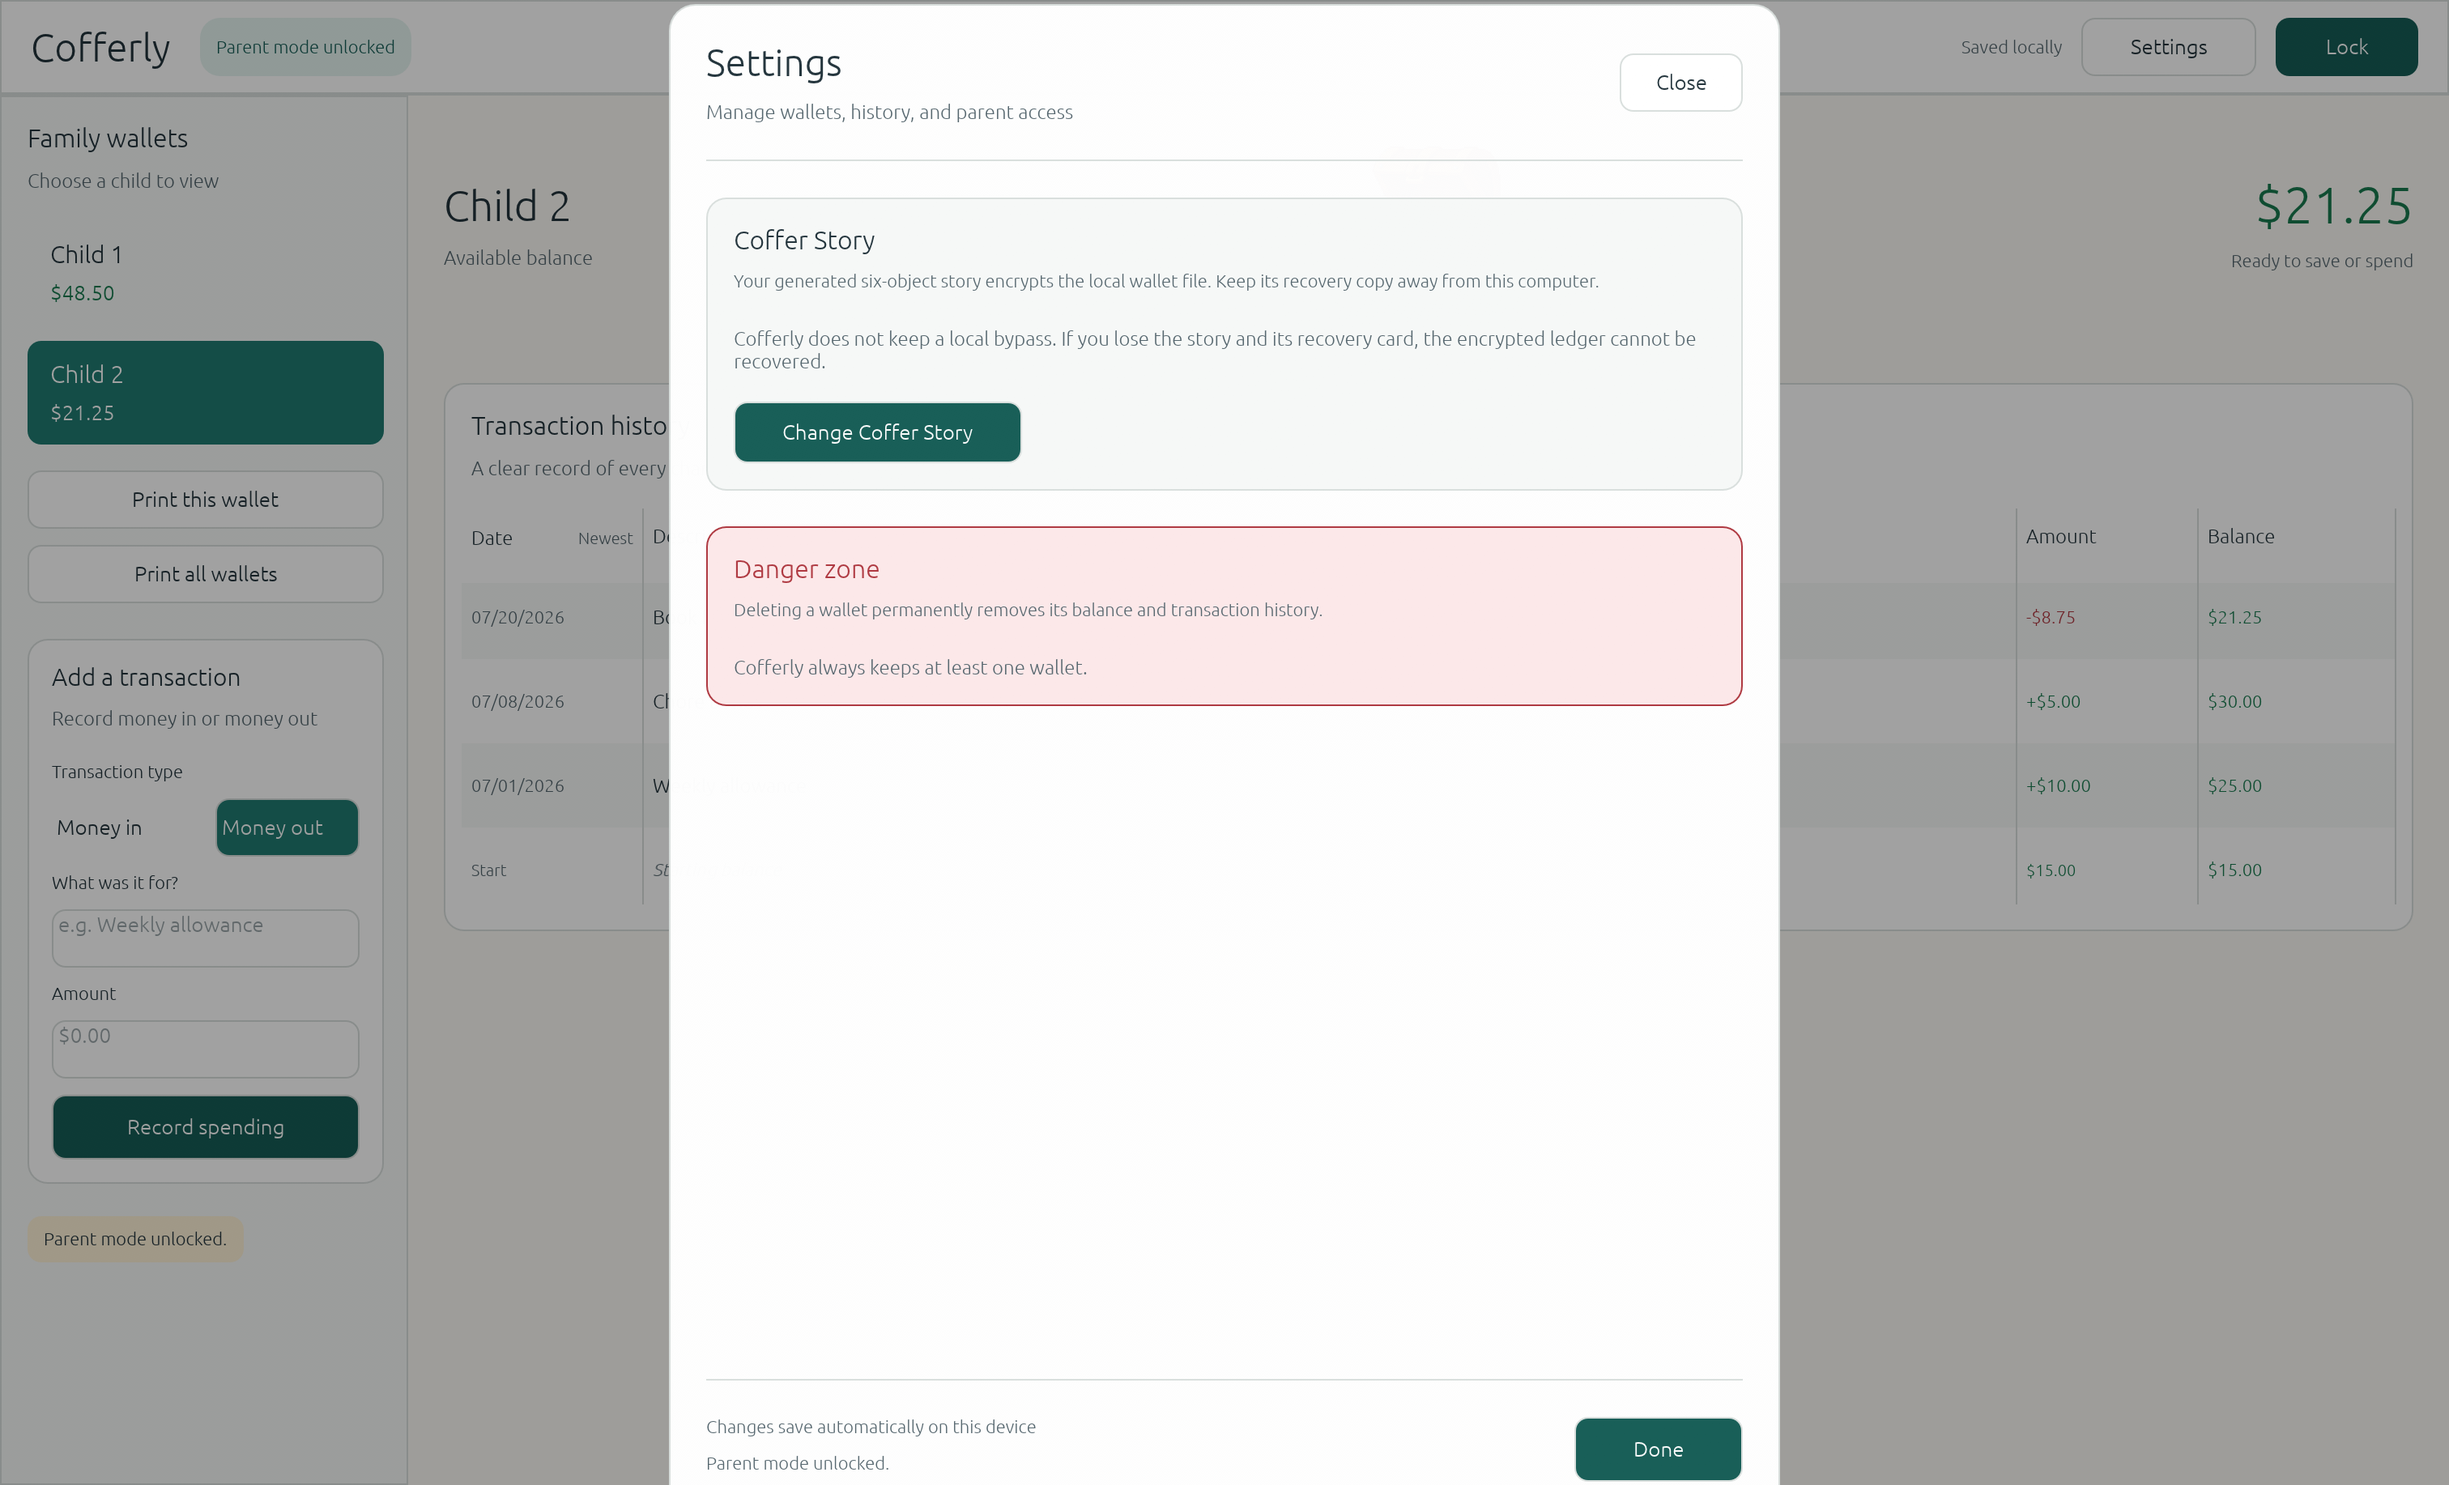
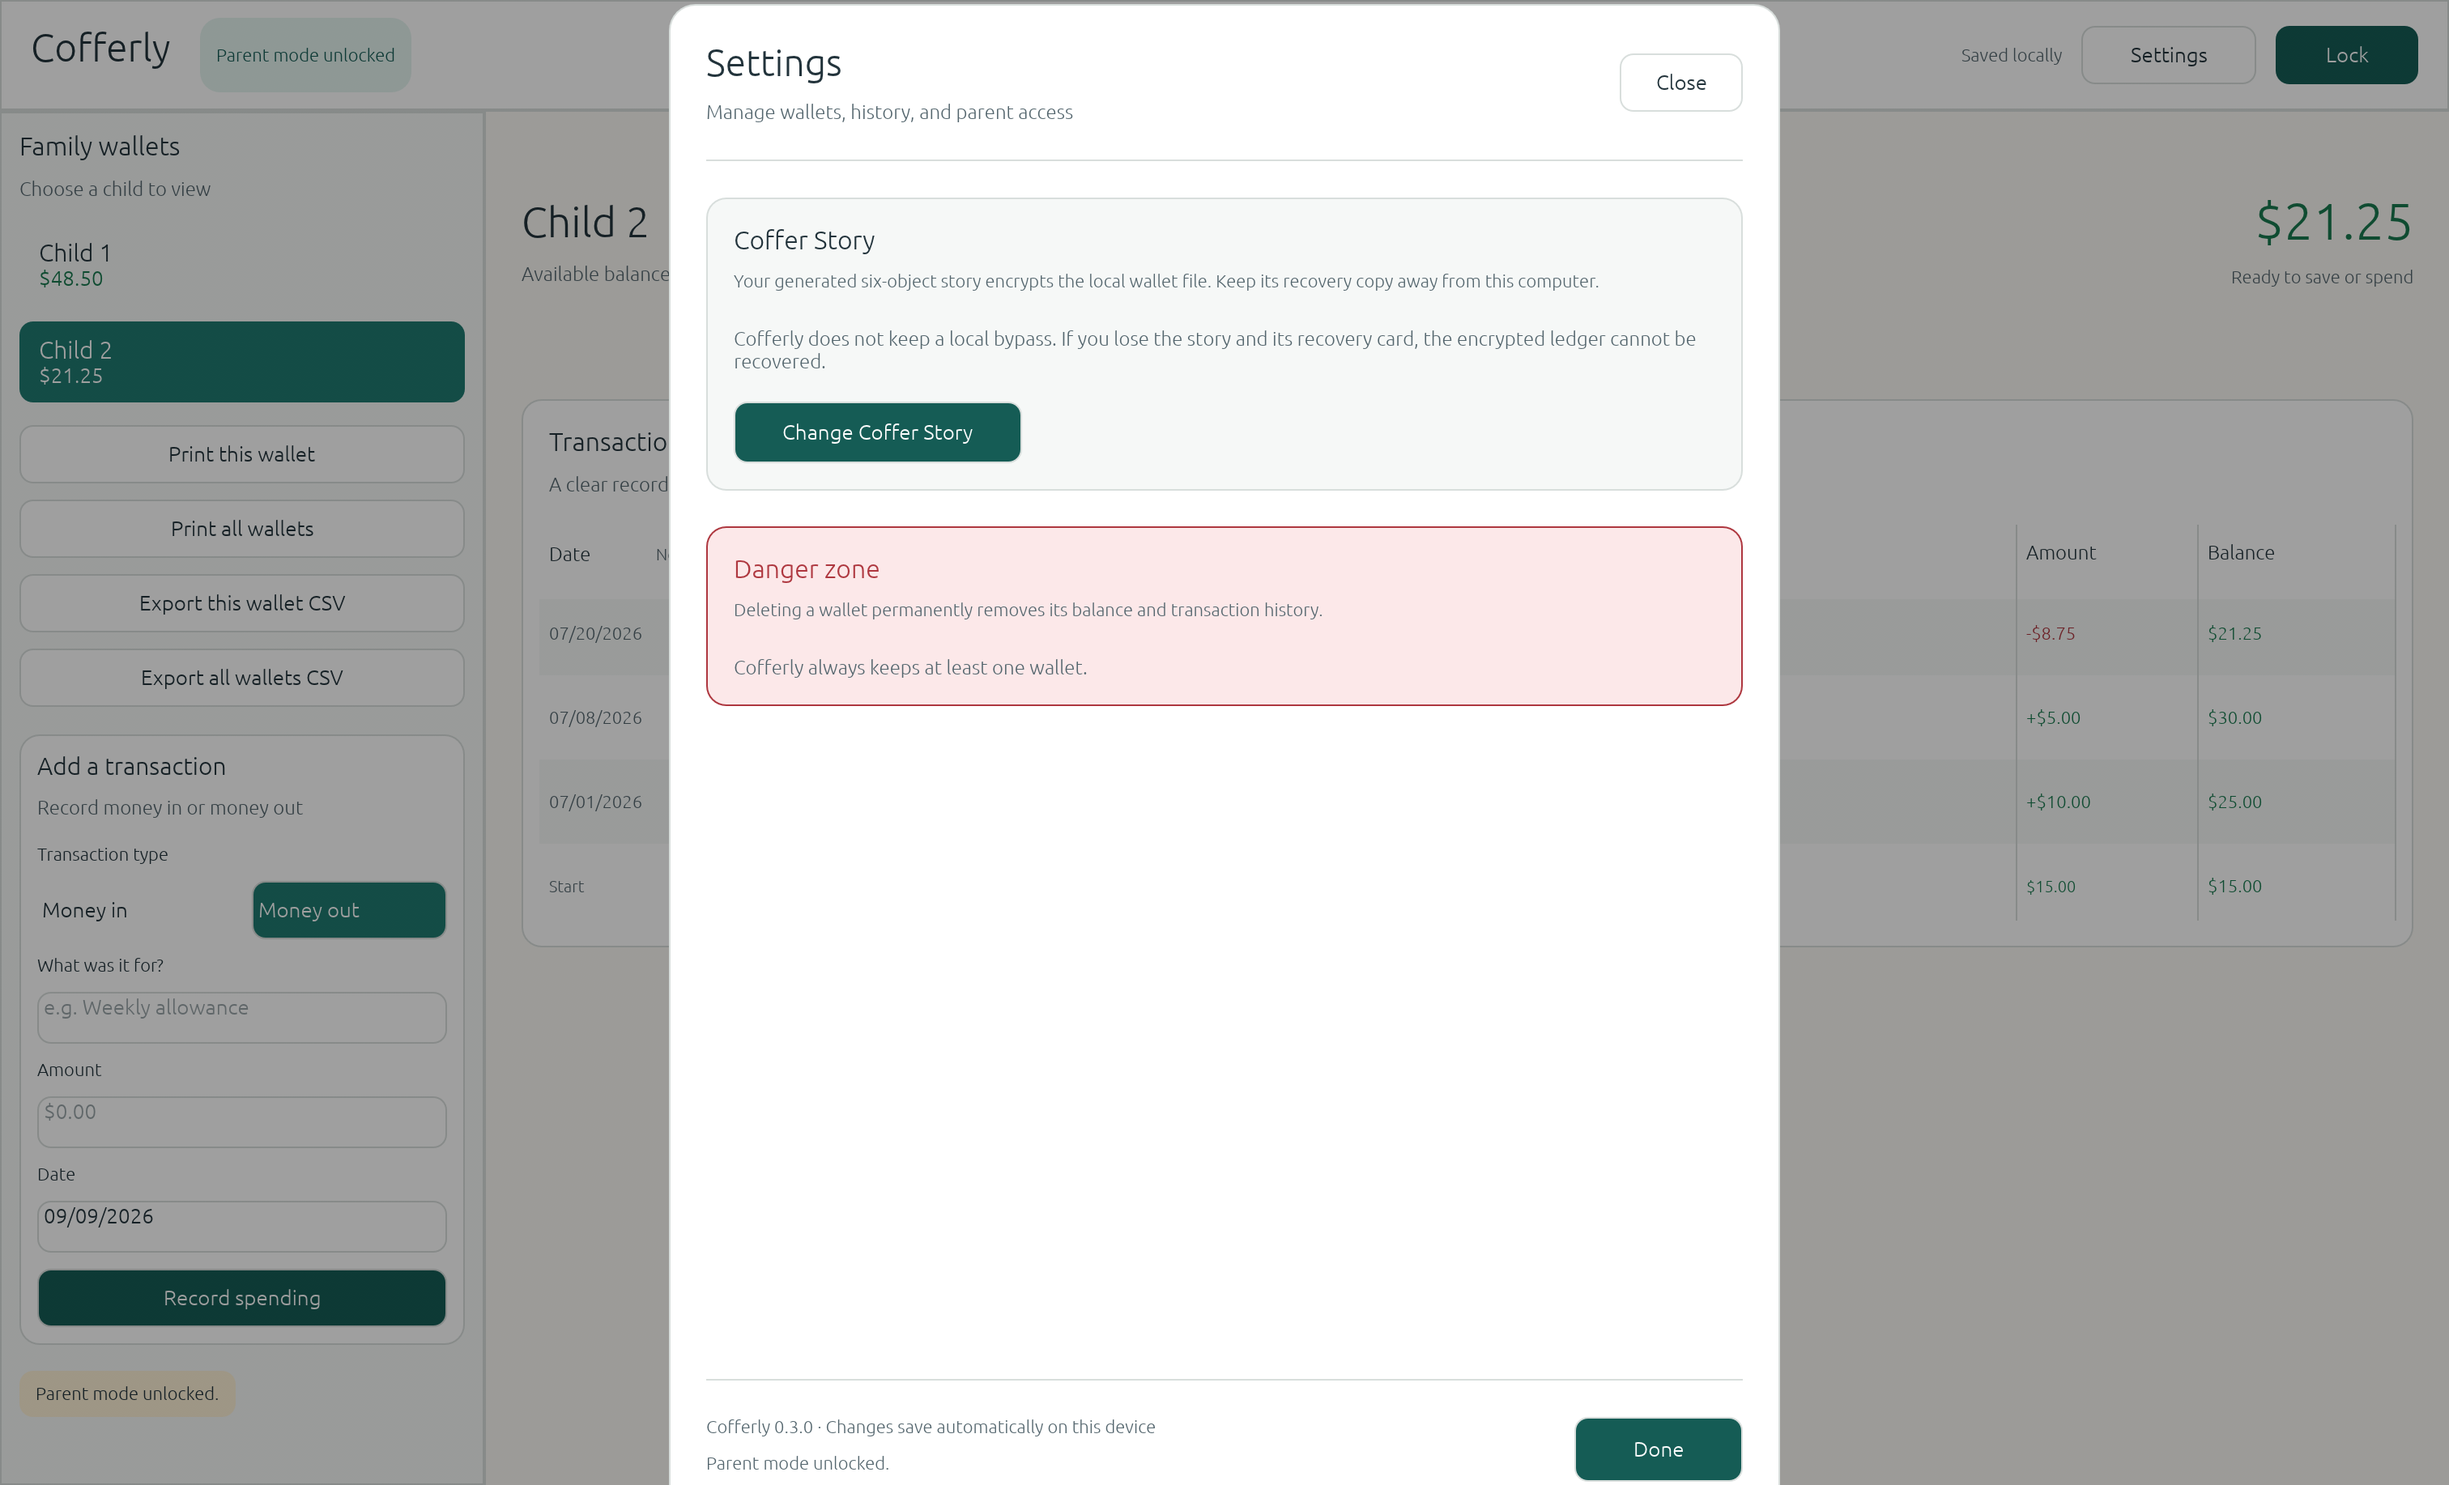
chore: prepare Cofferly 0.3.0
Bump version strings, fold Unreleased into the 0.3.0 changelog, document
story-unlock grace in SECURITY.md, extend the release smoke list, and
refresh README screenshots.

diff --git a/CHANGELOG.md b/CHANGELOG.md
@@ -2,29 +2,58 @@
 
 ## Unreleased
 
-- Amount and starting-balance validation copy mentions grouped/$ examples (`$1,234.56`) the parser already accepts.
-- Widens the main status chip so long export/unlock messages stay readable.
-- Unlocked chrome wallet picker/sidebar widened (~252→332) so it fits the wider status chip.
-- Entry-form validation failures move keyboard focus to the first invalid field.
-- Amount and starting-balance fields accept pasted grouped money (`$1,234.56`) by ignoring thousands separators.
-- Renaming a wallet keeps the Settings name field filled so it doesn't look like the name was lost.
-- Already-picked Coffer Story objects are ignored and greyed out so a duplicate tap cannot count as a failed unlock.
-- Settings starting-balance field prefills and hints the wallet's opening balance, not the running total, and Save stays disabled until the value actually changes.
-- Adding a wallet from Settings resets the starting-balance field to the new wallet's opening amount so Save cannot write the previous kid's prefill.
-- Deleting a wallet from Settings resets the name and starting-balance fields to the remaining wallet so Save cannot overwrite it.
-- CSV export for one wallet or all wallets (temp file, local open, no cloud).
-- Settings shows the Cofferly version next to the save reminder.
-- Money amounts use thousands separators (`$1,234.56`); typed input is unchanged.
+## 0.3.0 — 2026-09-09
+
+CSV export, backdated entries, grouped money, and Coffer Story / Settings hardening after the 0.2.0 cut.
+
+### Features
+
+- CSV export for one wallet or all wallets (temp file, local open, no cloud). Amounts are unformatted decimals so spreadsheets can sum them.
+- Money amounts use thousands separators (`$1,234.56`); typed input is unchanged. Pasted grouped money (`$1,234.56`) is accepted by ignoring thousands separators.
+- Amount and starting-balance validation copy mentions grouped/$ examples the parser already accepts.
 - Transactions can be backdated (MM/DD/YYYY, default today; future dates are rejected).
 - Parent mode shows a quiet “Locks in …” countdown for the last two minutes of inactivity.
-- README: macOS/Linux `cargo run` / `cargo build --release` notes.
-- README: primary Download links to GitHub Releases; recovery-card guidance and PIN→Story upgrade notes.
-- Adds printable [docs/recovery-card.md](docs/recovery-card.md) template for Coffer Stories.
-- CI: multi-OS test/clippy/fmt workflow plus `cargo audit` on PRs and `main`.
-- Release workflow: compile Inno Setup installer, attach zip + Setup.exe to the GitHub Release.
-- deps: bump `eframe` / `egui_extras` to 0.36.
-- Refreshes README screenshots for Coffer Story unlock, sample ledger, and Settings (including Change Coffer Story); removes obsolete PIN-screen asset.
+- Settings shows the Cofferly version next to the save reminder.
+- Adds printable [docs/recovery-card.md](docs/recovery-card.md) template for Coffer Stories, plus an in-app **Print recovery card** action during story setup.
+
+### Coffer Story
+
+- First two wrong unlock attempts are free (grace), then the existing 1-to-60-minute cooldown ladder starts.
+- Undo-last-pick and Cancel/Back on Coffer Story setup, change, and PIN migration.
+- Already-picked objects are ignored and greyed out so a duplicate tap cannot count as a failed unlock.
+- Unlock grid is exposed to screen readers.
+- Story setup crypto (Argon2id) runs on a background thread so the window stays responsive.
+
+### Security
+
+- CSV text fields that start with `=`, `+`, `-`, `@`, tab, or CR are prefixed with `'` so spreadsheets treat them as text, not formulas.
+- Recovery-card and ledger export temp files use private, random names and are deleted on lock and exit (with a launch-time sweep as backup).
+
+### UX and accessibility
+
+- Widens the main status chip and unlocked chrome wallet picker/sidebar to 300px so long export/unlock messages stay readable.
+- Tightens left-panel vertical density for 1280×800.
+- Entry-form validation failures move keyboard focus to the first invalid field.
+- Renaming a wallet keeps the Settings name field filled.
+- Settings starting-balance field prefills and hints the wallet's opening balance, not the running total, and Save stays disabled until the value actually changes.
+- Adding or deleting a wallet from Settings resets name/starting-balance fields so Save cannot write the previous kid's prefill.
+- Remove latest entry deletes the date-newest row (not last-appended), matching backdated ledgers.
+- Switching wallets from the sidebar clears a pending undo from the previous wallet.
+- Selected wallet is preserved across restart for families with more than two wallets.
+
+### CI and packaging
+
+- Multi-OS test/clippy/fmt workflow plus `cargo audit` on PRs and `main`.
+- Coverage report and 74% line floor (excluding UI-only `views.rs` and screenshot `capture.rs`).
+- Release workflow compiles the Inno Setup installer and attaches zip + Setup.exe to the GitHub Release.
+- README: macOS/Linux `cargo run` / `cargo build --release` notes; primary Download links to GitHub Releases; recovery-card guidance and PIN→Story upgrade notes.
+- Refreshes README screenshots for Coffer Story unlock, sample ledger, and Settings; removes the obsolete PIN-screen asset.
 - Adds maintainer screenshot helper (`scripts/capture-screenshots.sh` + `COFFERLY_CAPTURE` env).
+
+### Dependencies
+
+- Bump `eframe` / `egui_extras` to 0.36.
+- Bump `argon2` to 0.6 (Argon2id parameters unchanged: 64 MiB, 3 iterations, 1 lane).
 
 ## 0.2.0 — 2026-08-06
 

diff --git a/docs/RELEASE.md b/docs/RELEASE.md
@@ -9,7 +9,7 @@ cargo fmt -- --check
 cargo test
 cargo clippy --all-targets --all-features -- -D warnings
 cargo build --release
-.\scripts\package-windows.ps1 -Version 0.2.0
+.\scripts\package-windows.ps1 -Version 0.3.0
 ```
 
 The portable zip will be created in `dist/`.
@@ -45,7 +45,7 @@ Pushing a `v*` tag runs `.github/workflows/release.yml`, which builds the portab
 3. Compile with a version override if needed:
 
 ```powershell
-& "C:\Program Files (x86)\Inno Setup 6\ISCC.exe" /DMyAppVersion=0.2.0 installer\Cofferly.iss
+& "C:\Program Files (x86)\Inno Setup 6\ISCC.exe" /DMyAppVersion=0.3.0 installer\Cofferly.iss
 ```
 
 Output is written to `dist/` (`Cofferly-{version}-Setup.exe`).
@@ -55,7 +55,7 @@ Output is written to `dist/` (`Cofferly-{version}-Setup.exe`).
 1. Update `Cargo.toml`, `README.md`, installer default version, and this checklist if the version changes.
 2. Refresh the README screenshots in `docs/screenshots/` if the UI changed.
 3. Commit the release and merge to `main`.
-4. Tag it, for example `v0.2.0`, and push the tag.
+4. Tag it, for example `v0.3.0`, and push the tag.
 5. Confirm the Release workflow attached `Cofferly-*-windows-x64.zip` and `Cofferly-*-Setup.exe`.
 
 ## Repository Controls
@@ -84,3 +84,14 @@ Before publishing, open Cofferly and verify:
 - When both data files exist, `vault.cofferly` takes precedence and neither file is modified during startup.
 - Print this wallet opens a printable browser page.
 - Print all wallets opens every wallet in one printable page.
+- Export this wallet CSV and Export all wallets CSV open a local spreadsheet file (no `$` in amounts).
+- The date field defaults to today; a past date is accepted; a future date is rejected.
+- Remove latest entry removes the newest-dated row when the ledger is backdated.
+- Settings shows the Cofferly version next to the save reminder.
+- Starting-balance Save stays disabled until the opening amount actually changes.
+- Parent mode shows a quiet “Locks in …” countdown in the last two minutes of inactivity.
+- The first two wrong Coffer Story (or PIN) attempts do not start a cooldown; a third does.
+- Undo last pick and Cancel/Back work during story setup and story change.
+- Already-picked story objects are greyed out and ignored.
+- Print recovery card opens a local HTML card during story setup.
+- With three or more wallets, the selected wallet is the same after restart.

diff --git a/SECURITY.md b/SECURITY.md
@@ -30,6 +30,6 @@ Ledger data is encrypted at rest with XChaCha20-Poly1305 (authenticated encrypti
 
 ### Story guessing and cooldowns
 
-Consecutive wrong unlock attempts receive escalating in-app cooldowns of 1, 2, 5, 15, 30, and then 60 minutes. The delay resets after a successful unlock and never becomes a permanent lockout. It is an interface-level deterrent: restarting the app resets it, and it cannot restrict an attacker testing a copied data file offline.
+The first two wrong unlock attempts are free (a grace period for an honest misclick). After that, consecutive failures receive escalating in-app cooldowns of 1, 2, 5, 15, 30, and then 60 minutes. The delay resets after a successful unlock and never becomes a permanent lockout. It is an interface-level deterrent: restarting the app resets it, and it cannot restrict an attacker testing a copied data file offline.
 
 Six ordered, distinct objects selected from 30 yield 427,518,000 possibilities (about 28.7 bits). Argon2id makes each guess cost CPU time and 64 MiB of memory. This remains a family-use control, not a claim of absolute security: parallel or optimized offline attacks can be faster, and shoulder surfing is a practical risk.

diff --git a/README.md b/README.md
@@ -44,8 +44,8 @@ No account, no cloud — data stays on your PC as an encrypted `vault.cofferly` 
 cargo build --release
 # → target\release\Cofferly.exe
 
-.\scripts\package-windows.ps1 -Version 0.2.0
-# → dist\Cofferly-0.2.0-windows-x64.zip
+.\scripts\package-windows.ps1 -Version 0.3.0
+# → dist\Cofferly-0.3.0-windows-x64.zip
 ```
 
 ## Coffer Story
